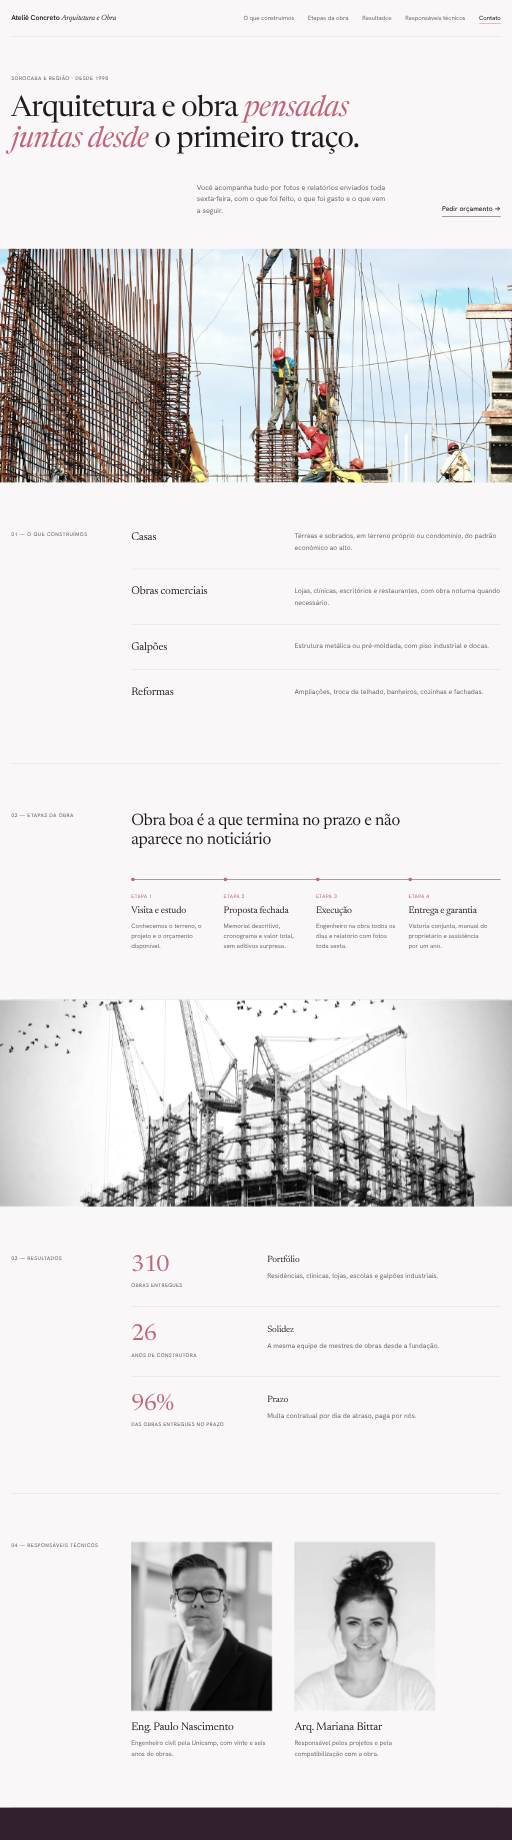
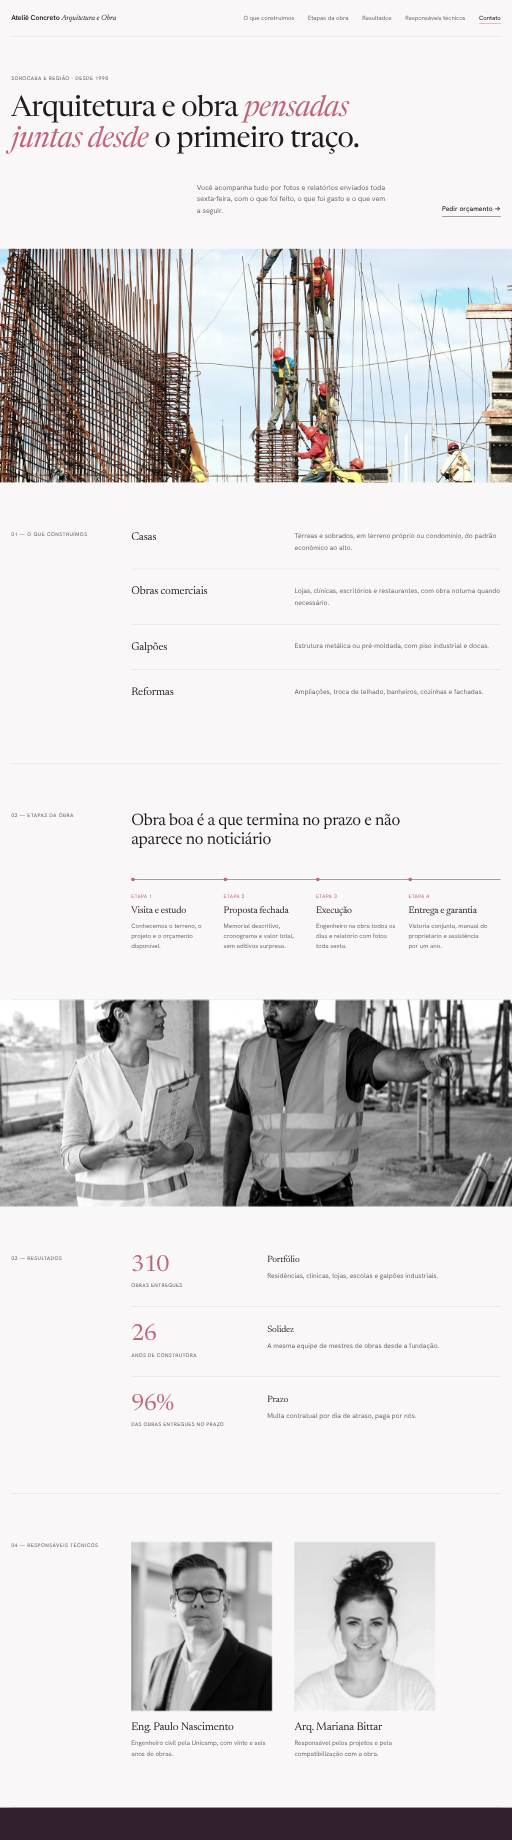
Bring construcao to 10 photos
Claude-Session: https://claude.ai/code/session_0151Yi9K8yWSyYvoKWm1KgPz

Changed region(s): [[0.0, 0.5266, 1.0, 0.6815]]

diff --git a/kolp-modelos/demo/construcao-07/index.html b/kolp-modelos/demo/construcao-07/index.html
@@ -35,7 +35,7 @@
       <p class="lide">Equipe própria de pedreiros, eletricistas e encanadores, registrada e treinada. Não subempreitamos a estrutura.</p>
       <div class="acoes"><a class="botao" href="#contato">Pedir orçamento</a><a class="elo" href="#servicos">Ver tipos de obra</a></div>
     </div>
-    <figure class="arco"><img src="../../fotos/construcao/1.jpg" alt="" width="1400" height="930"><figcaption>Desde 1998</figcaption></figure>
+    <figure class="arco"><img src="../../fotos/construcao/7.jpg" alt="" width="1400" height="930"><figcaption>Desde 1998</figcaption></figure>
   </div>
   <div class="largura"><dl class="indices"><div><dd>310</dd><dt>obras entregues</dt></div><div><dd>26</dd><dt>anos de construtora</dt></div><div><dd>96%</dd><dt>das obras entregues no prazo</dt></div><div><dd>180 mil</dd><dt>metros quadrados construídos</dt></div></dl></div>
   </section>
@@ -43,7 +43,7 @@
     <header class="topo rev"><h2>O que construímos</h2><p>Do projeto ao habite-se, com equipe própria.</p></header>
     <ol class="cartoes"><li class="rev"><h3>Casas</h3><p>Térreas e sobrados, em terreno próprio ou condomínio, do padrão econômico ao alto.</p></li><li class="rev"><h3>Obras comerciais</h3><p>Lojas, clínicas, escritórios e restaurantes, com obra noturna quando necessário.</p></li><li class="rev"><h3>Galpões</h3><p>Estrutura metálica ou pré-moldada, com piso industrial e docas.</p></li><li class="rev"><h3>Reformas</h3><p>Ampliações, troca de telhado, banheiros, cozinhas e fachadas.</p></li><li class="rev"><h3>Projetos</h3><p>Arquitetônico, estrutural, elétrico e hidráulico, com aprovação na prefeitura.</p></li><li class="rev"><h3>Laudos e regularização</h3><p>Vistorias, laudos técnicos, AVCB e regularização de obras antigas.</p></li></ol>
   </div></section>
-  <section class="faixa rev"><img src="../../fotos/construcao/2.jpg" alt="" width="1400" height="930" loading="lazy"><p>“Obra boa é a que termina no prazo e não aparece no noticiário”</p></section>
+  <section class="faixa rev"><img src="../../fotos/construcao/8.jpg" alt="" width="1400" height="930" loading="lazy"><p>“Obra boa é a que termina no prazo e não aparece no noticiário”</p></section>
   <section class="precos" id="precos"><div class="largura precos-grade">
     <div class="precos-lado rev"><h2>Tipos de obra e valores</h2><p>Referências por metro quadrado, com mão de obra e material.</p><a class="botao" href="#contato">Pedir orçamento</a></div>
     <div class="rev"><details open><summary>Residencial</summary><ul><li><div><b>Casa padrão econômico</b><span>Acabamento simples</span></div><strong>R$ 2.400/m²</strong></li><li><div><b>Casa padrão médio</b><span>Porcelanato e esquadrias de alumínio</span></div><strong>R$ 3.300/m²</strong></li><li><div><b>Casa alto padrão</b><span>Projeto personalizado</span></div><strong>R$ 5.200/m²</strong></li><li><div><b>Ampliação</b><span>Cômodo ou segundo pavimento</span></div><strong>R$ 2.900/m²</strong></li></ul></details><details><summary>Comercial</summary><ul><li><div><b>Loja ou clínica</b><span>Obra seca e instalações</span></div><strong>R$ 2.100/m²</strong></li><li><div><b>Galpão metálico</b><span>Com piso industrial</span></div><strong>R$ 1.450/m²</strong></li><li><div><b>Escritório</b><span>Divisórias, forro e climatização</span></div><strong>R$ 1.800/m²</strong></li></ul></details><details><summary>Reformas</summary><ul><li><div><b>Banheiro completo</b><span>Até 5 m²</span></div><strong>R$ 14.900</strong></li><li><div><b>Cozinha</b><span>Revestimento e instalações</span></div><strong>R$ 22.500</strong></li><li><div><b>Telhado</b><span>Troca de estrutura e telhas</span></div><strong>R$ 320/m²</strong></li></ul></details></div>

diff --git a/kolp-modelos/demo/construcao-08/index.html b/kolp-modelos/demo/construcao-08/index.html
@@ -34,17 +34,17 @@
     <p class="lide">Cinco anos de garantia sobre a estrutura e um ano de assistência gratuita depois da entrega das chaves.</p>
     <div class="acoes"><a class="botao" href="#contato">Pedir orçamento</a><a class="elo" href="#servicos">Ver tipos de obra</a></div>
     <div class="mosaico">
-      <img class="m1" src="../../fotos/construcao/3.jpg" alt="" width="1400" height="930">
-      <img class="m2" src="../../fotos/construcao/2.jpg" alt="" width="1400" height="930">
-      <img class="m3" src="../../fotos/construcao/4.jpg" alt="" width="1400" height="930">
+      <img class="m1" src="../../fotos/construcao/9.jpg" alt="" width="1400" height="930">
+      <img class="m2" src="../../fotos/construcao/8.jpg" alt="" width="1400" height="930">
+      <img class="m3" src="../../fotos/construcao/10.jpg" alt="" width="1400" height="930">
       <p class="selo"><b>310</b>obras entregues</p>
     </div>
   </div></section>
   <section class="pontos"><ul class="largura"><li class="rev">Preço fechado em contrato</li><li class="rev">Relatório com fotos toda sexta-feira</li><li class="rev">Cinco anos de garantia estrutural</li></ul></section>
   <section class="servicos" id="servicos"><div class="largura">
     <header class="topo rev"><h2>O que construímos</h2><p>Do projeto ao habite-se, com equipe própria.</p></header>
-    <div class="par rev"><img src="../../fotos/construcao/5.jpg" alt="" width="1400" height="930" loading="lazy"><ul><li><h3>Casas</h3><p>Térreas e sobrados, em terreno próprio ou condomínio, do padrão econômico ao alto.</p></li><li><h3>Obras comerciais</h3><p>Lojas, clínicas, escritórios e restaurantes, com obra noturna quando necessário.</p></li><li><h3>Galpões</h3><p>Estrutura metálica ou pré-moldada, com piso industrial e docas.</p></li></ul></div>
-    <div class="par par-inv rev"><img src="../../fotos/construcao/6.jpg" alt="" width="1400" height="930" loading="lazy"><ul><li><h3>Reformas</h3><p>Ampliações, troca de telhado, banheiros, cozinhas e fachadas.</p></li><li><h3>Projetos</h3><p>Arquitetônico, estrutural, elétrico e hidráulico, com aprovação na prefeitura.</p></li><li><h3>Laudos e regularização</h3><p>Vistorias, laudos técnicos, AVCB e regularização de obras antigas.</p></li></ul></div>
+    <div class="par rev"><img src="../../fotos/construcao/1.jpg" alt="" width="1400" height="930" loading="lazy"><ul><li><h3>Casas</h3><p>Térreas e sobrados, em terreno próprio ou condomínio, do padrão econômico ao alto.</p></li><li><h3>Obras comerciais</h3><p>Lojas, clínicas, escritórios e restaurantes, com obra noturna quando necessário.</p></li><li><h3>Galpões</h3><p>Estrutura metálica ou pré-moldada, com piso industrial e docas.</p></li></ul></div>
+    <div class="par par-inv rev"><img src="../../fotos/construcao/2.jpg" alt="" width="1400" height="930" loading="lazy"><ul><li><h3>Reformas</h3><p>Ampliações, troca de telhado, banheiros, cozinhas e fachadas.</p></li><li><h3>Projetos</h3><p>Arquitetônico, estrutural, elétrico e hidráulico, com aprovação na prefeitura.</p></li><li><h3>Laudos e regularização</h3><p>Vistorias, laudos técnicos, AVCB e regularização de obras antigas.</p></li></ul></div>
   </div></section>
   <section class="precos" id="precos"><div class="largura">
     <header class="topo rev"><h2>Tipos de obra e valores</h2><p>Referências por metro quadrado, com mão de obra e material.</p></header>

diff --git a/kolp-modelos/demo/construcao-10/index.html b/kolp-modelos/demo/construcao-10/index.html
@@ -30,7 +30,7 @@
 <div class="conteudo">
 <main>
   <section class="abertura">
-    <img src="../../fotos/construcao/4.jpg" alt="" width="1400" height="930">
+    <img src="../../fotos/construcao/10.jpg" alt="" width="1400" height="930">
     <div class="legenda"><p class="rotulo">Desde 1998 · Sorocaba e região</p><h1>Engenheiros na obra todos os dias, não só na assinatura.</h1></div>
   </section>
   <section class="sobre" id="sobre">
@@ -41,7 +41,7 @@
     <header class="topo"><h2>O que construímos</h2><p>Do projeto ao habite-se, com equipe própria.</p></header>
     <ul class="servicos"><li><h3>Casas</h3><p>Térreas e sobrados, em terreno próprio ou condomínio, do padrão econômico ao alto.</p></li><li><h3>Obras comerciais</h3><p>Lojas, clínicas, escritórios e restaurantes, com obra noturna quando necessário.</p></li><li><h3>Galpões</h3><p>Estrutura metálica ou pré-moldada, com piso industrial e docas.</p></li><li><h3>Reformas</h3><p>Ampliações, troca de telhado, banheiros, cozinhas e fachadas.</p></li><li><h3>Projetos</h3><p>Arquitetônico, estrutural, elétrico e hidráulico, com aprovação na prefeitura.</p></li><li><h3>Laudos e regularização</h3><p>Vistorias, laudos técnicos, AVCB e regularização de obras antigas.</p></li></ul>
   </section>
-  <figure class="citacao"><img src="../../fotos/construcao/5.jpg" alt="" width="1400" height="930" loading="lazy"><blockquote>“Obra boa é a que termina no prazo e não aparece no noticiário”</blockquote></figure>
+  <figure class="citacao"><img src="../../fotos/construcao/1.jpg" alt="" width="1400" height="930" loading="lazy"><blockquote>“Obra boa é a que termina no prazo e não aparece no noticiário”</blockquote></figure>
   <section id="equipe">
     <header class="topo"><h2>Responsáveis técnicos</h2><p>Engenheiros com registro no CREA e presença diária no canteiro.</p></header>
     <div class="equipe"><article><img src="../../fotos/retratos/m4.jpg" alt="Retrato de Eng. Paulo Nascimento" width="560" height="680" loading="lazy"><div><h3>Eng. Paulo Nascimento</h3><p class="cargo">Diretor técnico · CREA 5061234567</p><p>Engenheiro civil pela Unicamp, com vinte e seis anos de obras.</p></div></article><article><img src="../../fotos/retratos/f4.jpg" alt="Retrato de Arq. Mariana Bittar" width="560" height="680" loading="lazy"><div><h3>Arq. Mariana Bittar</h3><p class="cargo">Projetos · CAU A98765-4</p><p>Responsável pelos projetos e pela compatibilização com a obra.</p></div></article><article><img src="../../fotos/retratos/m5.jpg" alt="Retrato de Eng. Diego Lopes" width="560" height="680" loading="lazy"><div><h3>Eng. Diego Lopes</h3><p class="cargo">Obras · CREA 5069876543</p><p>Especialista em estruturas metálicas e pré-moldadas.</p></div></article></div>

diff --git a/kolp-modelos/demo/construcao-09/index.html b/kolp-modelos/demo/construcao-09/index.html
@@ -30,7 +30,7 @@
 </div></header>
 <main>
   <section class="abertura">
-    <img src="../../fotos/construcao/3.jpg" alt="" width="1400" height="930">
+    <img src="../../fotos/construcao/9.jpg" alt="" width="1400" height="930">
     <div class="abertura-bloco"><div>
       <p class="rotulo">Sorocaba e região</p>
       <h1>Galpões e estruturas metálicas entregues em até noventa dias.</h1>
@@ -51,7 +51,7 @@
     <header class="topo"><h2>Tipos de obra e valores</h2><p>Referências por metro quadrado, com mão de obra e material.</p></header>
     <div class="tabela-rolagem"><table><tbody><tr class="grupo"><th colspan="3">Residencial</th></tr><tr><th>Casa padrão econômico</th><td>Acabamento simples</td><td>R$ 2.400/m²</td></tr><tr><th>Casa padrão médio</th><td>Porcelanato e esquadrias de alumínio</td><td>R$ 3.300/m²</td></tr><tr><th>Casa alto padrão</th><td>Projeto personalizado</td><td>R$ 5.200/m²</td></tr><tr><th>Ampliação</th><td>Cômodo ou segundo pavimento</td><td>R$ 2.900/m²</td></tr></tbody><tbody><tr class="grupo"><th colspan="3">Comercial</th></tr><tr><th>Loja ou clínica</th><td>Obra seca e instalações</td><td>R$ 2.100/m²</td></tr><tr><th>Galpão metálico</th><td>Com piso industrial</td><td>R$ 1.450/m²</td></tr><tr><th>Escritório</th><td>Divisórias, forro e climatização</td><td>R$ 1.800/m²</td></tr></tbody><tbody><tr class="grupo"><th colspan="3">Reformas</th></tr><tr><th>Banheiro completo</th><td>Até 5 m²</td><td>R$ 14.900</td></tr><tr><th>Cozinha</th><td>Revestimento e instalações</td><td>R$ 22.500</td></tr><tr><th>Telhado</th><td>Troca de estrutura e telhas</td><td>R$ 320/m²</td></tr></tbody></table></div>
   </div></section>
-  <section class="prova"><img src="../../fotos/construcao/4.jpg" alt="" width="1400" height="930" loading="lazy">
+  <section class="prova"><img src="../../fotos/construcao/10.jpg" alt="" width="1400" height="930" loading="lazy">
     <blockquote><p>“Entregaram a clínica doze dias antes do combinado e sem um real de aditivo. Era a terceira obra que eu fazia e a primeira sem dor de cabeça.”</p><footer><b>Dr. Flávio Menezes</b> proprietário de clínica odontológica</footer></blockquote>
   </section>
   <section class="contato" id="contato"><div class="largura contato-grade">

diff --git a/kolp-modelos/demo/construcao-06/index.html b/kolp-modelos/demo/construcao-06/index.html
@@ -44,7 +44,7 @@
     <div><p class="frase rev">Obra boa é a que termina no prazo e não aparece no noticiário</p>
       <ol class="etapas"><li class="rev"><span>Etapa 1</span><h3>Visita e estudo</h3><p>Conhecemos o terreno, o projeto e o orçamento disponível.</p></li><li class="rev"><span>Etapa 2</span><h3>Proposta fechada</h3><p>Memorial descritivo, cronograma e valor total, sem aditivos surpresa.</p></li><li class="rev"><span>Etapa 3</span><h3>Execução</h3><p>Engenheiro na obra todos os dias e relatório com fotos toda sexta.</p></li><li class="rev"><span>Etapa 4</span><h3>Entrega e garantia</h3><p>Vistoria conjunta, manual do proprietário e assistência por um ano.</p></li></ol></div>
   </div></section>
-  <figure class="faixa-foto rev"><img src="../../fotos/construcao/1.jpg" alt="" width="1400" height="930" loading="lazy"></figure>
+  <figure class="faixa-foto rev"><img src="../../fotos/construcao/7.jpg" alt="" width="1400" height="930" loading="lazy"></figure>
   <section class="casos" id="resultados"><div class="largura bloco">
     <h2 class="rotulo">03 — Resultados</h2>
     <div><article class="rev"><p class="resultado">310<small>obras entregues</small></p><div><h3>Portfólio</h3><p>Residências, clínicas, lojas, escolas e galpões industriais.</p></div></article><article class="rev"><p class="resultado">26<small>anos de construtora</small></p><div><h3>Solidez</h3><p>A mesma equipe de mestres de obras desde a fundação.</p></div></article><article class="rev"><p class="resultado">96%<small>das obras entregues no prazo</small></p><div><h3>Prazo</h3><p>Multa contratual por dia de atraso, paga por nós.</p></div></article></div>

diff --git a/kolp-modelos/demo/construcao-05/index.html b/kolp-modelos/demo/construcao-05/index.html
@@ -52,7 +52,7 @@
       <a class="botao botao-grande" href="https://wa.me/5511999999999?text=Ol%C3%A1!%20Vim%20pelo%20site.">Pedir orçamento</a></div>
   </div></section>
   <section class="loja" id="local">
-    <img class="loja-fundo" src="../../fotos/construcao/1.jpg" alt="" width="1400" height="930" loading="lazy">
+    <img class="loja-fundo" src="../../fotos/construcao/7.jpg" alt="" width="1400" height="930" loading="lazy">
     <div class="largura loja-grade"><div class="cartao">
       <h2>Peça um orçamento para a sua obra</h2>
       <p class="endereco">Av. Itavuvu, 3.200 — Jardim Santa Cecília, Sorocaba</p>
